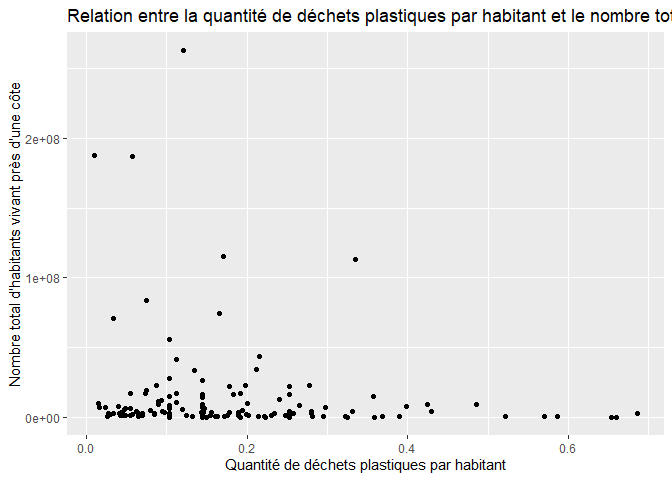
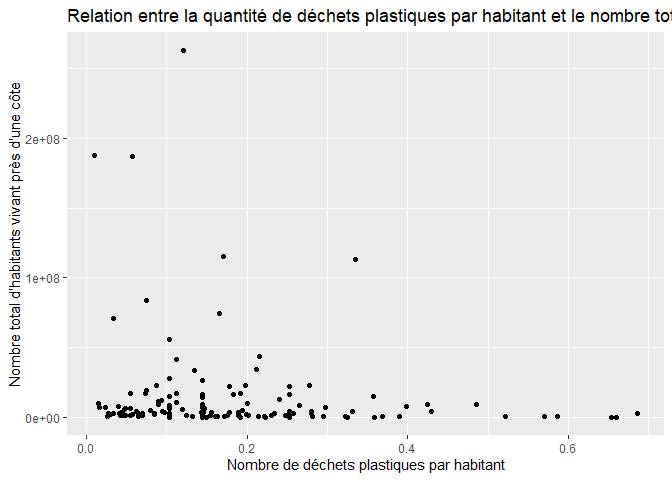
Version finale

Changed region(s): [[0.3438, 0.9375, 0.75, 1.0]]

diff --git a/lab-02.md b/lab-02.md
@@ -28,7 +28,7 @@ plastic_waste <- plastic_waste %>%
 ``` r
 ggplot(plastic_waste, aes(x = plastic_waste_per_cap)) +
   geom_histogram (binwidth = 0.2) +
-  facet_grid (~ continent) +
+  facet_wrap (~ continent, ncol = 3) +
   labs(title = "Distribution de la quantité de déchets plastiques par habitant pour les six continents", x = "Nombre de déchets plastiques par habitant")
 ```
 
@@ -115,7 +115,7 @@ ggplot(plastic_waste, aes(x = plastic_waste_per_cap, y = total_pop)) +
 ``` r
 ggplot(plastic_waste, aes(x = plastic_waste_per_cap, y = coastal_pop)) +
   geom_point() +
-  labs(title = "Relation entre la quantité de déchets plastiques par habitant et le nombre total d'habitants vivant près d'une côte", x = "Quantité de déchets plastiques par habitant", y = "Nombre total d'habitants vivant près d'une côte")
+  labs(title = "Relation entre la quantité de déchets plastiques par habitant et le nombre total d'habitants vivant près d'une côte", x = "Nombre de déchets plastiques par habitant", y = "Nombre total d'habitants vivant près d'une côte")
 ```
 
 ![](lab-02_files/figure-gfm/plastic-waste-population-coastal-1.png)<!-- -->
@@ -124,7 +124,10 @@ La relation entre la quantité de déchets plastiques par habitant et le
 nombre total d’habitants semble être plus forte que celle entre la
 quantité de déchets plastiques par habitant et le nombre total
 d’habitants vivant près d’une côte. En effet, les points du premiers
-graphique sont plus concentrés près de l’axe des abscisses.
+graphique sont plus concentrés près de l’axe des abscisses. Pour être en
+mesure de mieux étudier ces graphiques, il pourrait être intéressant de
+retirer les valeurs abberants, ce qui permettrait de mieux visualiser
+les graphiques.
 
 ## Conclusion
 
@@ -147,3 +150,15 @@ ggplot(plastic_waste %>% mutate(coastal_pop_prop = coastal_pop / total_pop) %>%
     ## (`geom_point()`).
 
 ![](lab-02_files/figure-gfm/recreate-viz-1.png)<!-- -->
+
+On peut remarquer sur ce graphique que les pays d’Afrique sont
+majoritairement en dessous de la ligne qui caractérise l’ensemble des
+données. Les autres continents semblent, eux, être présents en
+proportions similaires au-dessus et au-dessous de cette ligne. Par
+ailleurs, on observe au début que la quantité de déchets plastiques par
+habitant augmente avec la proportion de la population côtière, puis un
+plateau se fait aux alentours d’une proportion de population côtière de
+1,0. Dépassé ce point, la quantité de déchets plastiques par habitant se
+met à diminuer un peu. En outre, un pays d’Océanie possède la plus
+grande population côtière et un pays d’Asie produit le plus de déchets
+plastiques par habitant.
